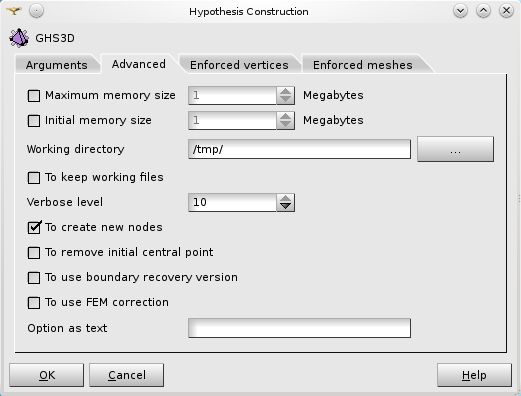
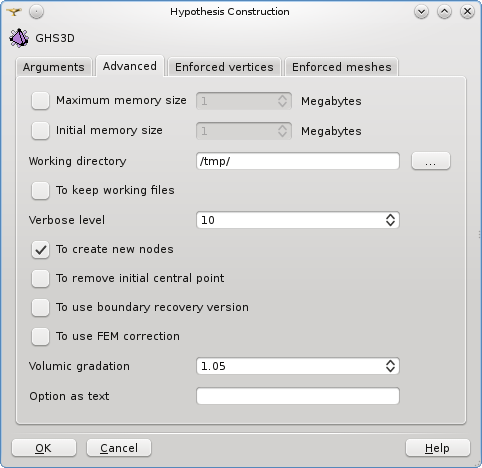
[NEW] Add the volumic gradation parameter. [FIX] In GUI, replace myEnforcedTableWidget->clear() by myEnforcedTableWidget->clearContents() (header labels were erased)

Changed region(s): [[0.0, 0.0, 1.0, 1.0]]

diff --git a/src/GUI/GHS3DPlugin_msg_fr.ts b/src/GUI/GHS3DPlugin_msg_fr.ts
@@ -80,6 +80,10 @@
         <translation>Utiliser correction FEM</translation>
     </message>
     <message>
+        <source>GHS3D_GRADATION</source>
+        <translation>Gradation volumique</translation>
+    </message>
+    <message>
         <source>SELECT_DIR</source>
         <translation>...</translation>
     </message>

diff --git a/src/GUI/GHS3DPlugin_msg_en.ts b/src/GUI/GHS3DPlugin_msg_en.ts
@@ -80,6 +80,10 @@
         <translation>To use FEM correction</translation>
     </message>
     <message>
+        <source>GHS3D_GRADATION</source>
+        <translation>Volumic gradation</translation>
+    </message>
+    <message>
         <source>SELECT_DIR</source>
         <translation>...</translation>
     </message>

diff --git a/src/GUI/GHS3DPluginGUI_HypothesisCreator.h b/src/GUI/GHS3DPluginGUI_HypothesisCreator.h
@@ -143,6 +143,7 @@ typedef struct
   bool    myToMeshHoles,myKeepFiles,myToCreateNewNodes,myBoundaryRecovery,myFEMCorrection,myRemoveInitialCentralPoint;
   int     myMaximumMemory,myInitialMemory,myOptimizationLevel;
   QString myName,myWorkingDir,myTextOption;
+  double  myGradation;
   short   myVerboseLevel;
   TEnfVertexList myEnforcedVertices;
   TEnfMeshList myEnforcedMeshes;
@@ -222,6 +223,7 @@ private:
   QCheckBox*          myRemoveInitialCentralPointCheck;
   QCheckBox*          myBoundaryRecoveryCheck;
   QCheckBox*          myFEMCorrectionCheck;
+  SMESHGUI_SpinBox*   myGradation;
   QLineEdit*          myTextOption;
   
   QWidget*            myEnfGroup;

diff --git a/src/GUI/GHS3DPluginGUI_Enums.h b/src/GUI/GHS3DPluginGUI_Enums.h
@@ -58,7 +58,7 @@ enum {
 // Enforced vertices widget inputs
 enum {
   ENF_VER_WARNING = 0,
-  ENF_VER_VERTEX /*= 0*/,
+  ENF_VER_VERTEX,// = 0,
   ENF_VER_X_COORD,
   ENF_VER_Y_COORD,
   ENF_VER_Z_COORD,
